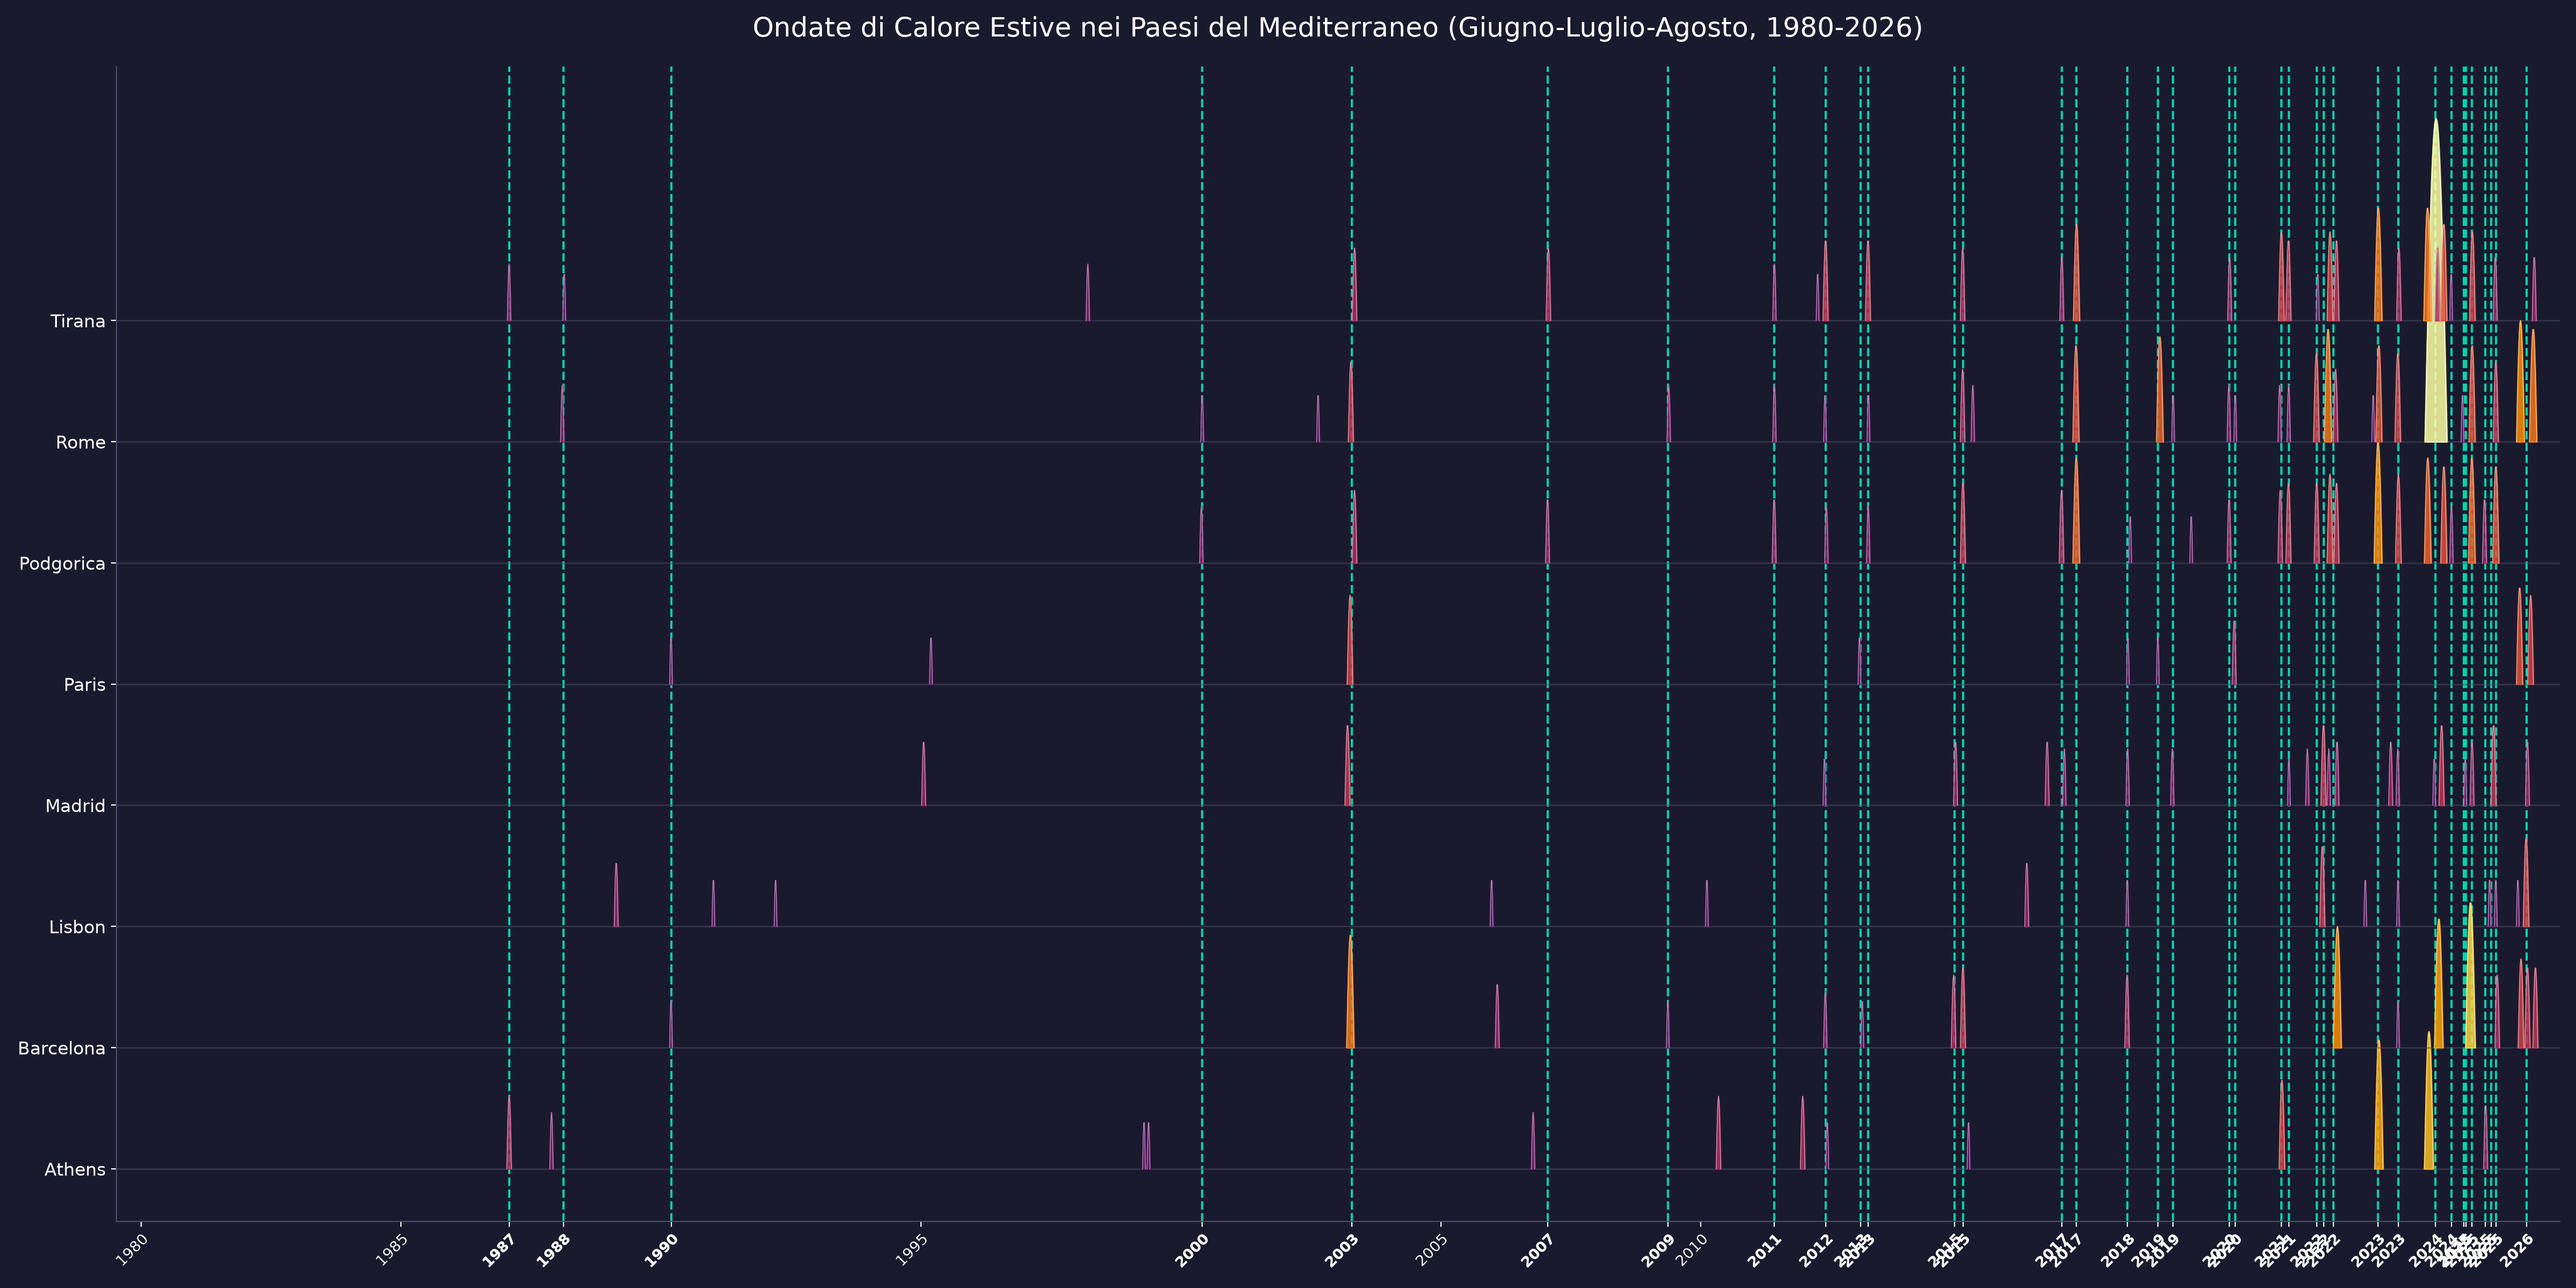
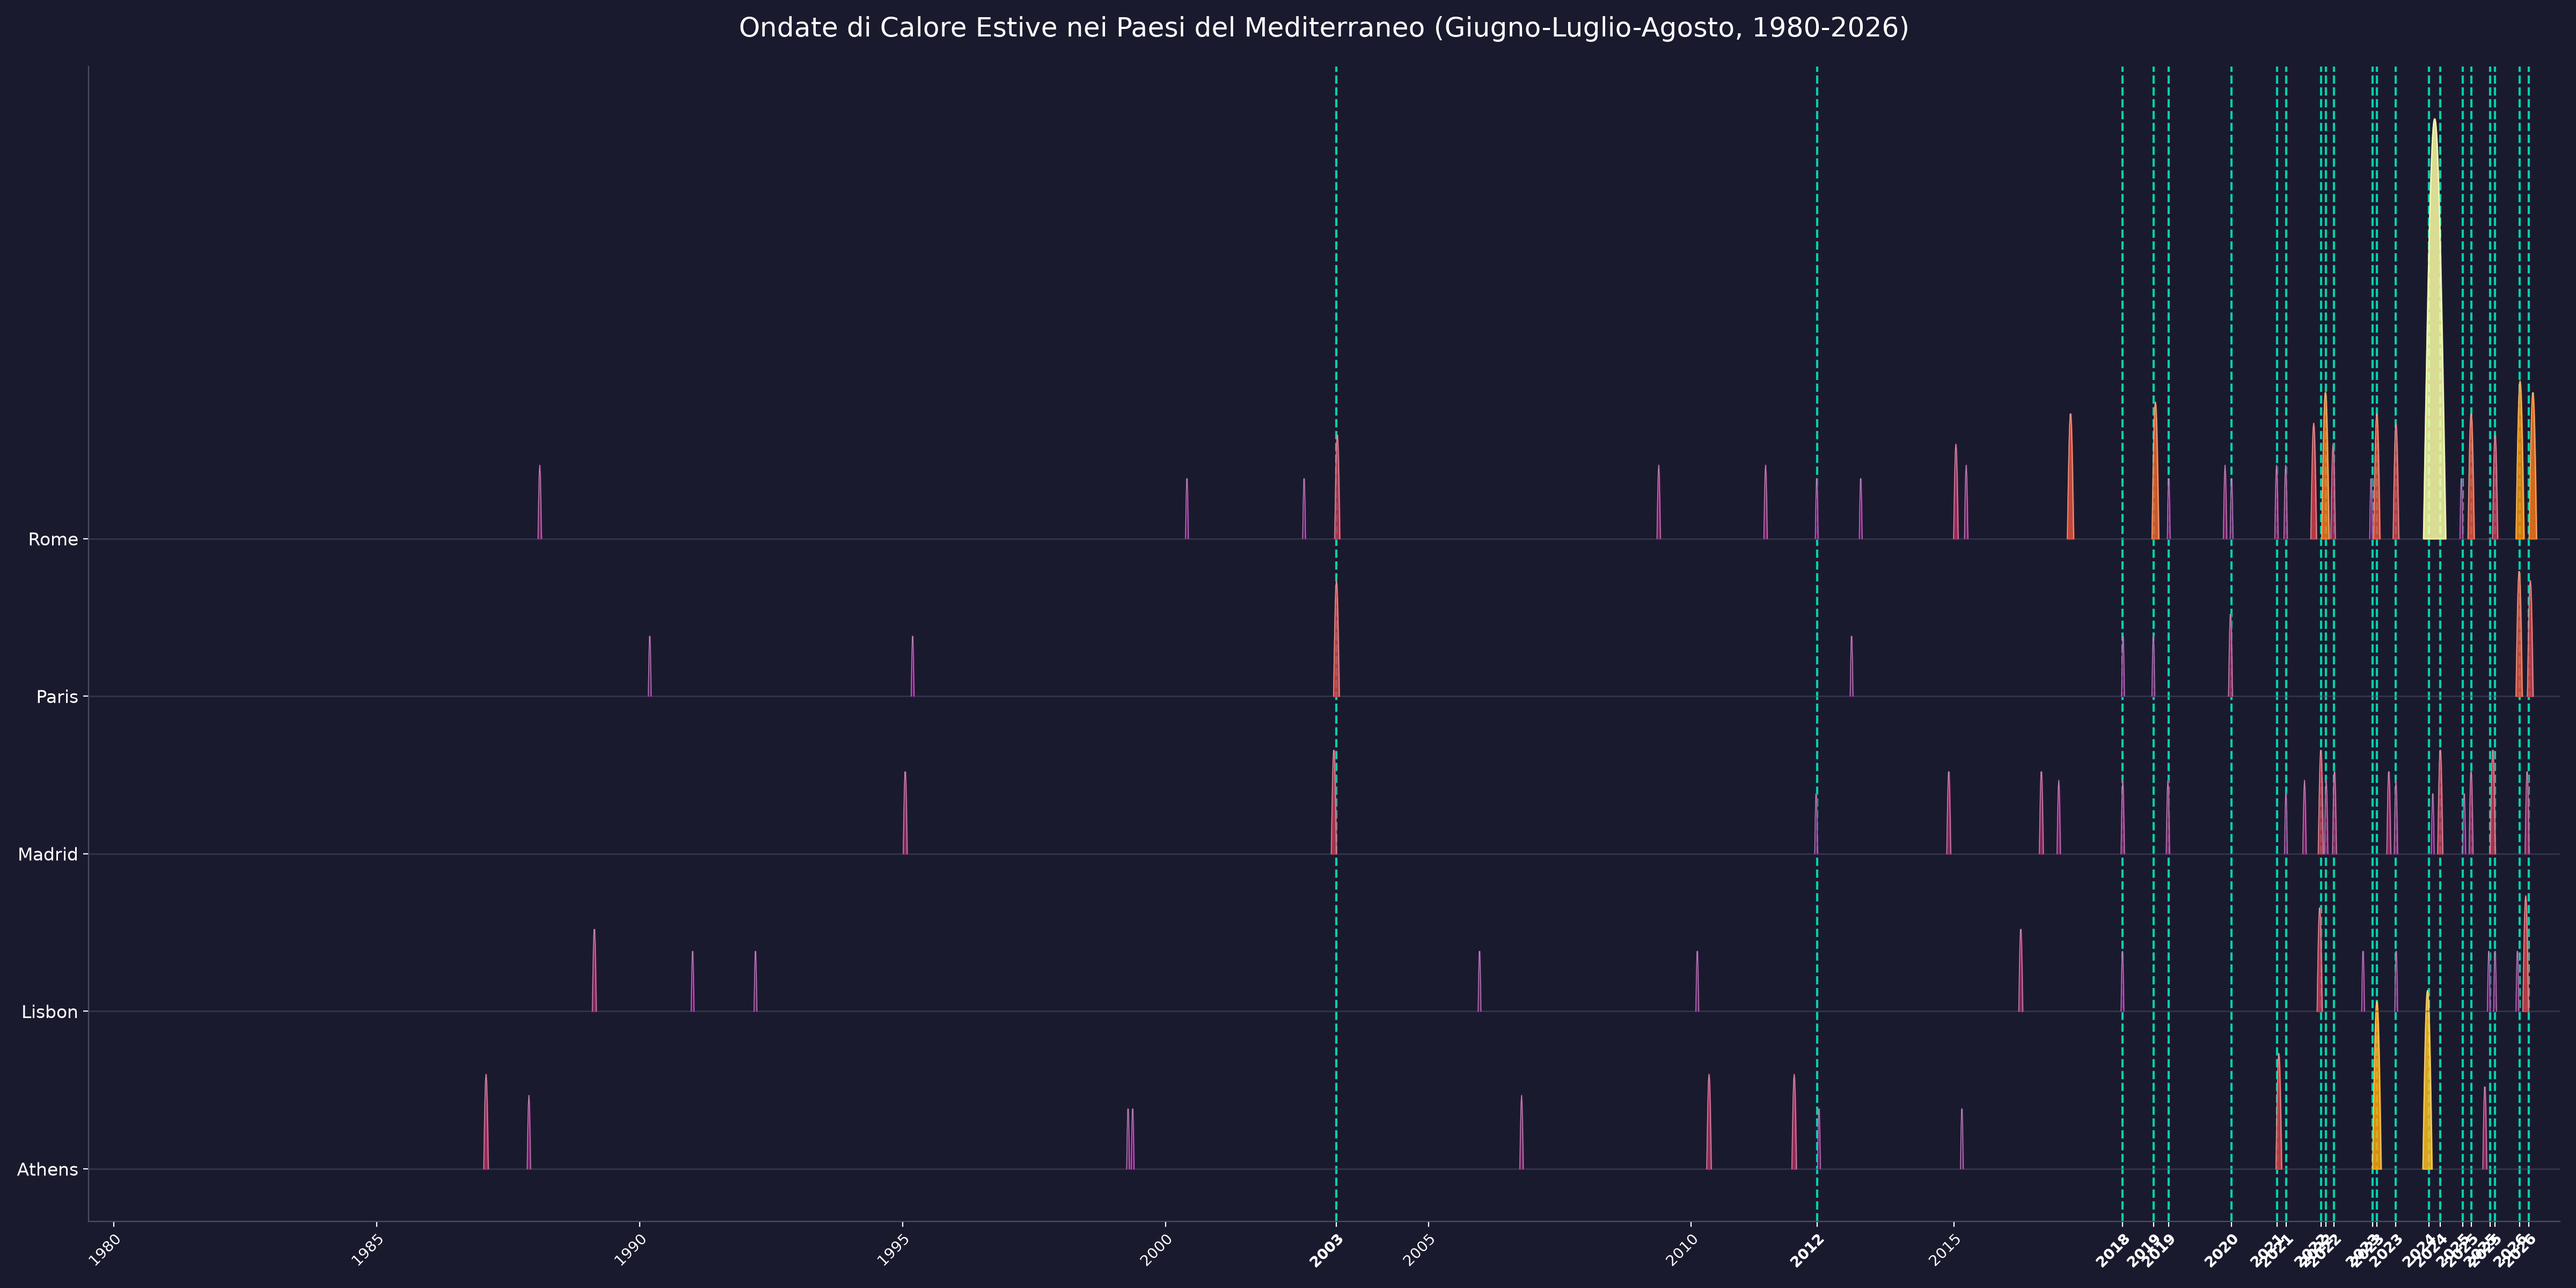
fix: Restrict Mediterranean heatwaves strictly to the 5 representative national cities (Athens, Lisbon, Madrid, Paris, Rome)

diff --git a/plot_wildfire_heatmaps.py b/plot_wildfire_heatmaps.py
@@ -75,8 +75,8 @@ MEDITERRANEAN_5 = {
     'France': 46.2, 'Italy': 41.9, 'Spain': 40.4, 'Portugal': 39.4, 'Greece': 39.0
 }
 
-# Mediterranean Summer Heatwave Sync Years (1980-2026) displayed in "heatwaves_mediterranean.png"
-HEATWAVE_YEARS = {1987, 1988, 1990, 2000, 2003, 2007, 2009, 2011, 2012, 2013, 2015, 2017, 2018, 2019, 2020, 2021, 2022, 2023, 2024, 2025, 2026}
+# Mediterranean 5-Country Summer Heatwave Sync Years (1980-2026) displayed in "heatwaves_mediterranean.png"
+HEATWAVE_YEARS = {2003, 2012, 2018, 2019, 2020, 2021, 2022, 2023, 2024, 2025, 2026}
 
 def generate_custom_p80_p90_heatmap(matrix_ha, title, subtitle, output_path, figsize=(30, 8.5)):
     # Calculate 80th percentile for individual countries (rows 0..N-2)

diff --git a/plot_heatwaves_mediterranean.py b/plot_heatwaves_mediterranean.py
@@ -7,13 +7,10 @@ from datetime import timedelta
 
 MEDITERRANEAN_CITY_FILES = [
     'data/Athens.csv',
-    'data/Barcelona.csv',
     'data/Lisbon.csv',
     'data/Madrid.csv',
     'data/Paris.csv',
-    'data/Rome.csv',
-    'data/Podgorica.csv',
-    'data/Tirana.csv'
+    'data/Rome.csv'
 ]
 
 def compute_heatwaves(city_file):
